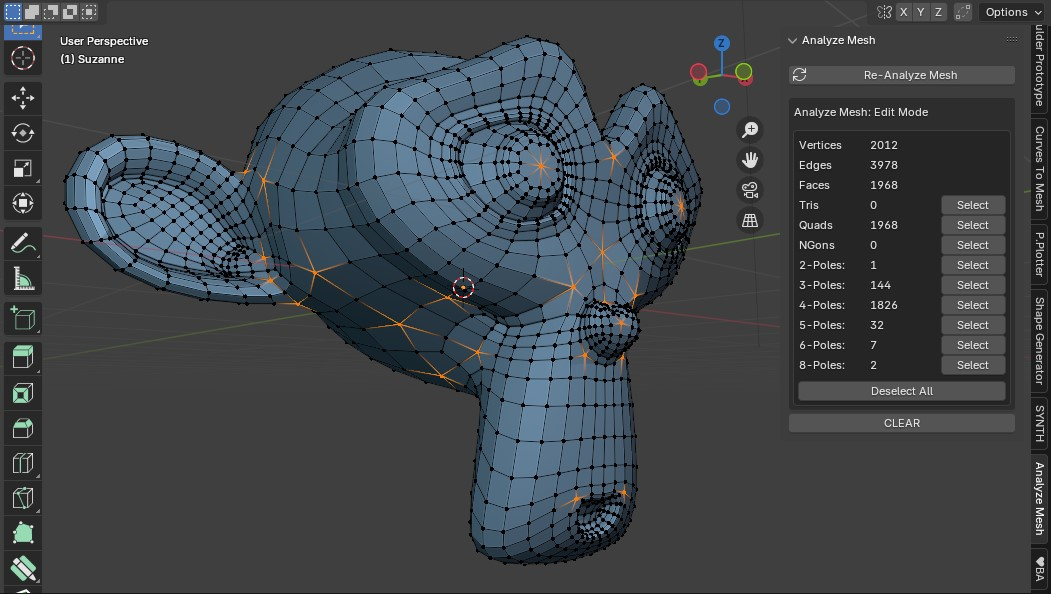
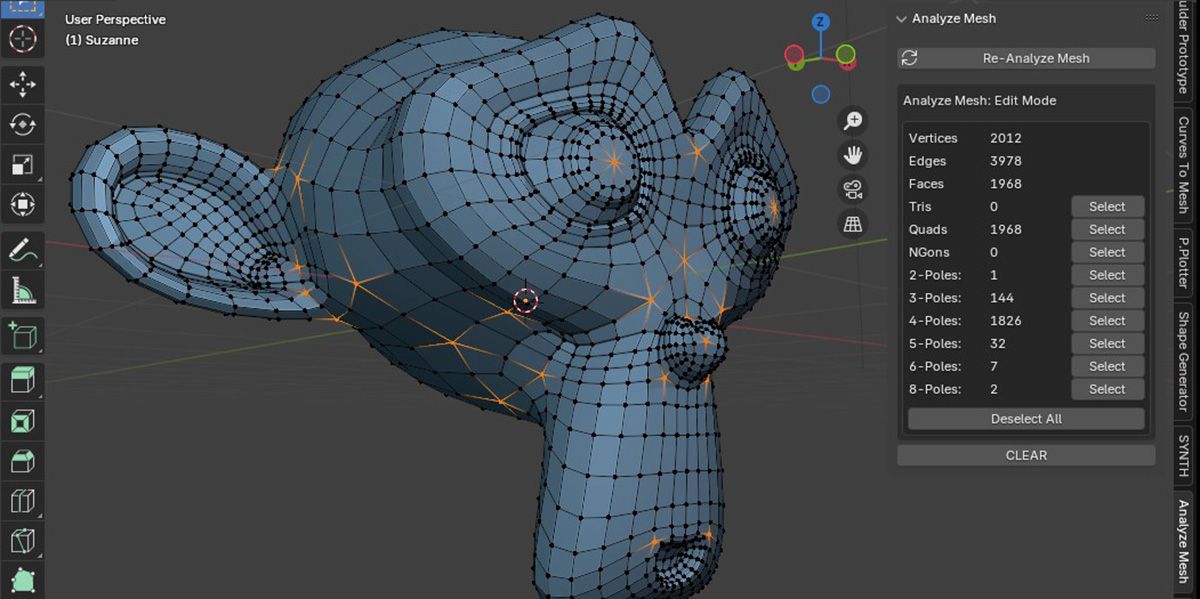
Minor Adjustments

Changed region(s): [[0.0, 0.0, 1.0, 1.0], [0.0, 0.0, 0.1522, 0.3636]]

diff --git a/docs/quick_start.rst b/docs/quick_start.rst
@@ -57,7 +57,7 @@ Select Elements
 Refreshing
 ============================
 
-To save on performance, the report is not automatically updated when you make changes to the mesh.  Click the *Analyze Mesh* button again to refresh the report.
+To save on performance, the report is not automatically updated when you make changes to the mesh.  Click the *Re-Analyze Mesh* button again to refresh the report.
 
     .. image:: _static/images/refresh_report.gif
        :alt: Analyze Mesh

diff --git a/docs/index.rst b/docs/index.rst
@@ -48,7 +48,7 @@ Features
 
     * In **Object mode**, the add-on will analyze the entire mesh with modifiers included.
 
-* Refresh by clicking the *Analyze Mesh* button again in order to save on performance.
+* Refresh by clicking the *Re-Analyze Mesh* button again in order to save on performance.
 
 ---------------------------------
 Using
